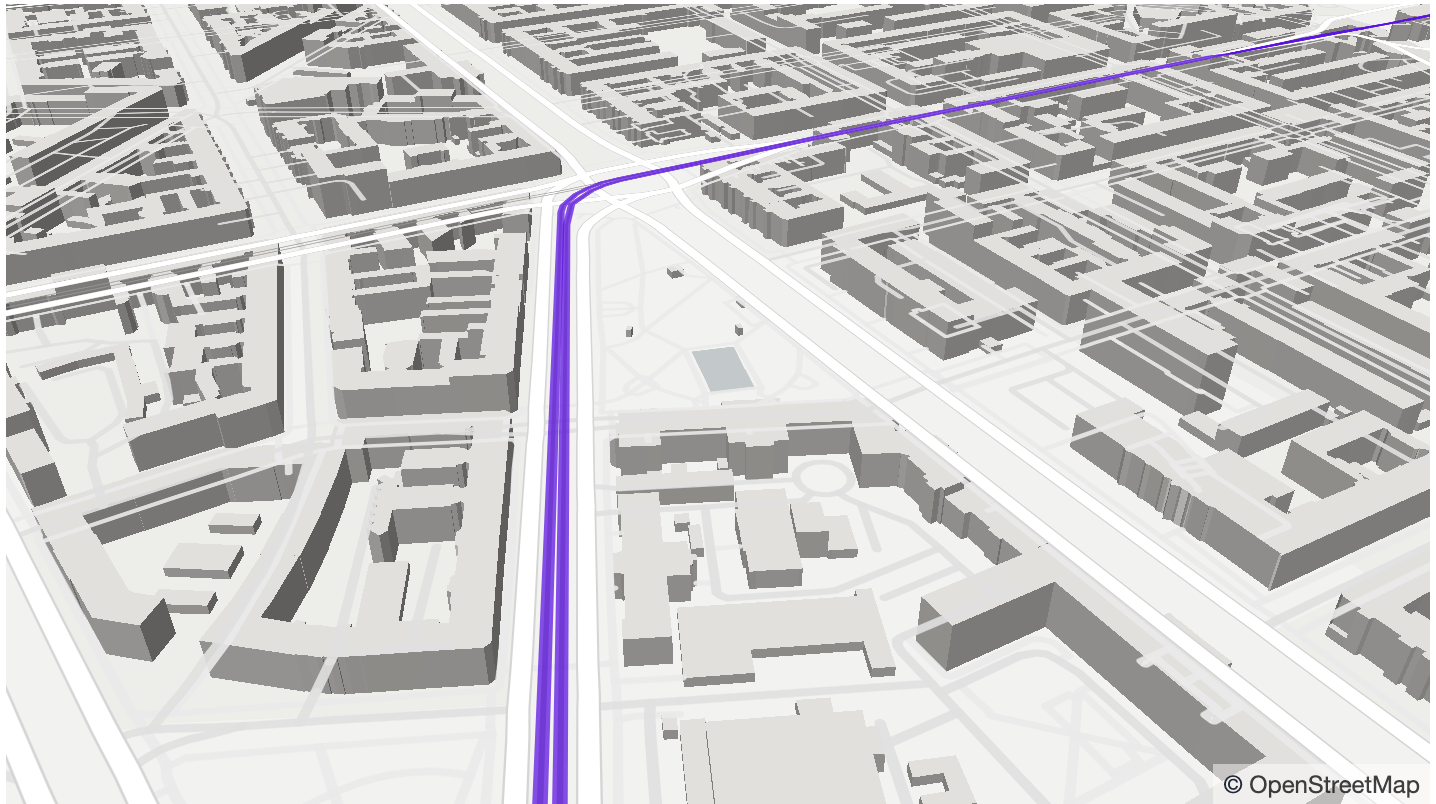
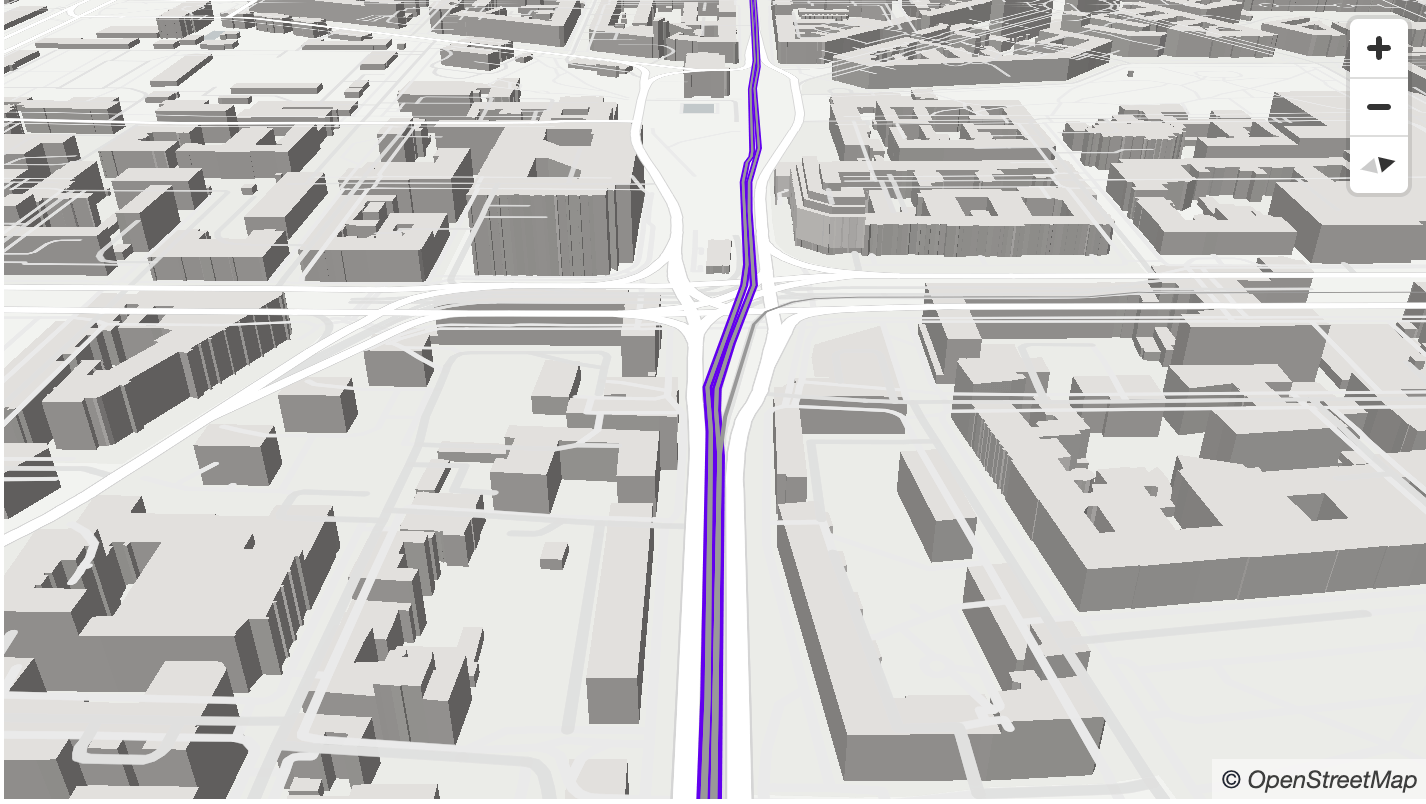
Update 'Like a bird' post (#33)

diff --git a/src/components/blog-samples/FlyingTrip.jsx b/src/components/blog-samples/FlyingTrip.jsx
@@ -108,10 +108,9 @@ export default function FlyingTrip() {
             'line-color': [
               'case',
               ['==', ['get', 'route_variant_type'], 'default'],
-              'rgb(98, 0, 238)',
+              'rgb(131, 25, 224)',
               'rgb(153, 153, 153)',
             ],
-            'line-opacity': 0.7,
             'line-width': [
               'case',
               ['==', ['get', 'route_variant_type'], 'default'],
